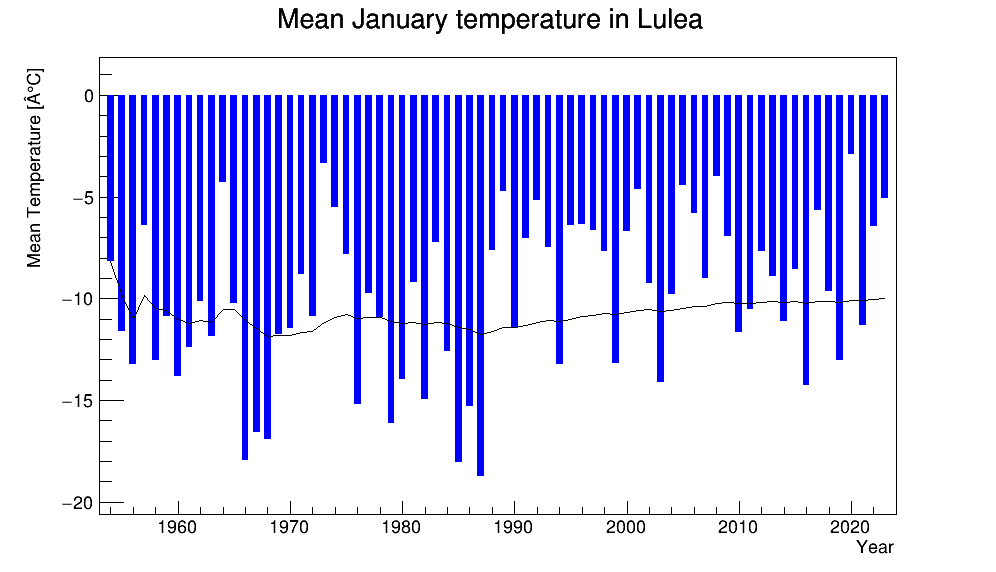
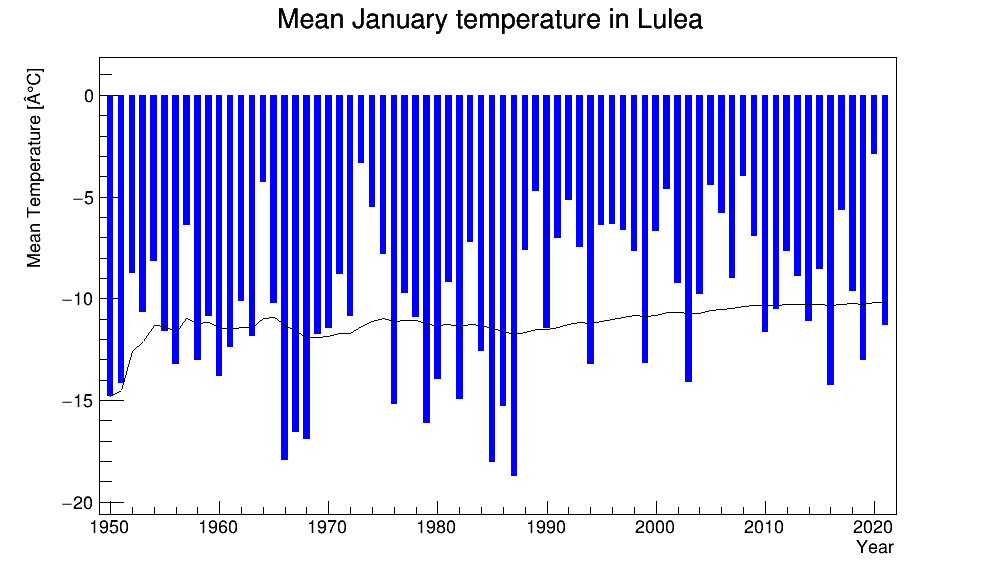
Year parameters added.

diff --git a/include/analyses.h b/include/analyses.h
@@ -24,19 +24,19 @@
  * @brief Compute and plot the difference in mean yearly temperature
  *        between Luleå and Falsterbo.
  */
-void diff_in_mean_temp_Lulea_Falsterbo();
+void diff_in_mean_temp_Lulea_Falsterbo(const int yearMin, const int yearMax);
 
 /**
  * @brief Compute and plot the mean January temperature in Luleå
  *        for each year in the dataset.
  */
-void mean_temp_January_Lulea();
+void mean_temp_January_Lulea(const int yearMin, const int yearMax);
 
 /**
  * @brief Compute and plot the difference between the warmest
  *        and coldest day for each year in Karlstad.
  */
-void warmest_vs_coldest_Karlstad();
+void warmest_vs_coldest_Karlstad(const int yearMin, const int yearMax);
 
 /**
  * @brief Count and plot which day-of-year is most often the warmest
